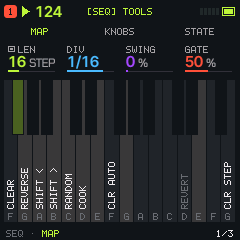
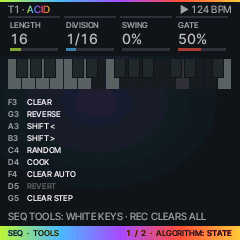
feat(ui): SEQ TOOLS and REC layers in the ACID look
ux_layer.c draws both (key map, knob row, status line naming the layer, own
view bits in ui.uxlv); the inherited cards and page columns are deleted from
ui_layer.c. Keys and knobs unchanged.

diff --git a/firmware/src/ux_layer.c b/firmware/src/ux_layer.c
@@ -1,6 +1,7 @@
 /* SPDX-License-Identifier: GPL-3.0-only */
 /* Copyright (C) 2026 NorfolkHacker */
-/* ACID FM's held layers (ux_layer.h; 3b spec 2.6): EDIT, LFO's MACRO, FX's performance layer and SCL in the 3a look. The keys,
+/* ACID FM's held layers (ux_layer.h; 3b spec 2.6; 3c-1 task 5 spec 2.6): EDIT, LFO's MACRO, FX's performance layer, SCL, SEQ TOOLS
+ * and REC in the 3a look. The keys,
  * the knobs, the LEDs, the gesture and the latches are ui_layer.c's (ly_keyname names each key and its state, layer_knob turns
  * the knobs, layer_state lists what is on): only the drawing is here. The screen as a section page's (ux_section.c): the header
  * (T3 . the sound, the transport), the knob row (the layer's four in KNOB 1..4's colours, plain names: FX's macros or the
@@ -10,7 +11,10 @@
  * them), the status line (a message; a knob's readout; else the layer and what its keys and OCT do), the footer (the layer and
  * how it is held; ALGORITHM's next view). Included after ux_section.c (uxs_knobs, uxs_val) and ui_layer.c (its tables). */
 
-static int ux_layer_owns(uint32_t l) { return l == LAYER_EDIT || l == LAYER_MACRO || l == LAYER_FX || l == LAYER_SCL; }
+static int ux_layer_owns(uint32_t l)
+{
+    return l == LAYER_EDIT || l == LAYER_MACRO || l == LAYER_FX || l == LAYER_SCL || l == LAYER_SEQ || l == LAYER_REC;
+}
 
 /* FX's KNOB 1..4, the performance macros (perform.c perf_m), by what they do (spec 0 rule 4; one name a meaning): STEP LOOP
  * (JIANT's STEPS: ui_live.c loops the steps the playhead is in, 1/2 1/4 1/8 of the pattern or one step; STEPS is LFO's
@@ -30,20 +34,25 @@ static const char *const UXL_KEYP[16] = {"REPEAT 1/8", "REPEAT 1/16", "REPEAT 1/
                                          "DECAY -", "DECAY +", "STUTTER 1/8", "STUTTER 1/16", "ATTACK +", "ON ALL", "ON SYNTHS",
                                          "ON DRUMS", "INIT + KIT", "RECALL + KIT"};
 /* the status line's words when nothing else is said: the layer, what its keys and OCT do */
-enum { UXL_S_FX, UXL_S_LATCH, UXL_S_LOCK, UXL_S_EDIT, UXL_S_EDRM, UXL_S_SCL, UXL_S_MAC, UXL_S_MLAT, UXL_S_N };
+enum { UXL_S_FX, UXL_S_LATCH, UXL_S_LOCK, UXL_S_EDIT, UXL_S_EDRM, UXL_S_SCL, UXL_S_MAC, UXL_S_MLAT, UXL_S_TOOLS, UXL_S_TDRM,
+       UXL_S_TBUSY, UXL_S_REC, UXL_S_N };
 static const char *const UXL_SAY[UXL_S_N] = {"FX: KEYS PLAY EFFECTS \xB7 BLACK KEYS MUTE", "FX LATCH: KEYS ON / OFF \xB7 OCT- ALL OFF",
                                              "FX LOCKED: PRESS FX TO UNLOCK", "EDIT: F3 INIT \xB7 G3 RECALL \xB7 SELECT DICE",
                                              "EDIT: SELECT DICE \xB7 BLACK KEYS MUTE",
                                              "SCL: A KEY SETS THE ROOT \xB7 NO OCTAVE", "LFO: F3 DICE \xB7 G3 CLEAR \xB7 SELECT DICE",
-                                             "MACROS LATCHED: PRESS LFO TO CLOSE"};
+                                             "MACROS LATCHED: PRESS LFO TO CLOSE",
+                                             "SEQ TOOLS: WHITE KEYS \xB7 REC CLEARS ALL",
+                                             "SEQ TOOLS: BLACK KEYS PICK THE LANE",
+                                             "SEQ TOOLS: STOP TO EDIT",
+                                             "REC: F3 CLEAR \xB7 G3 CLICK \xB7 KNOB 1 CLICK"};
 static const char *const UXL_GXSAY[4] = {"GLITCH HELD: ITS FOUR KNOBS", "TAPE STOP HELD: KNOB 1 SCRATCHES",
                                          "SHUFFLE HELD: ITS FOUR KNOBS", "FREEZE HELD: ITS FOUR KNOBS"};
 /* the footer: the layer and how it is open; ALGORITHM's next view (MAP, STATE) */
-enum { UXL_W_FX, UXL_W_LATCH, UXL_W_LOCK, UXL_W_EDIT, UXL_W_SCL, UXL_W_MAC, UXL_W_MLAT };
-static const char *const UXL_WHERE[7] = {"FX \xB7 HOLD", "FX \xB7 LATCH", "FX \xB7 LOCKED", "EDIT \xB7 HELD", "SCL \xB7 HELD",
-                                         "LFO \xB7 MACROS", "LFO \xB7 LATCHED"};
+enum { UXL_W_FX, UXL_W_LATCH, UXL_W_LOCK, UXL_W_EDIT, UXL_W_SCL, UXL_W_MAC, UXL_W_MLAT, UXL_W_TOOLS, UXL_W_REC, UXL_W_N };
+static const char *const UXL_WHERE[UXL_W_N] = {"FX \xB7 HOLD", "FX \xB7 LATCH", "FX \xB7 LOCKED", "EDIT \xB7 HELD", "SCL \xB7 HELD",
+                                               "LFO \xB7 MACROS", "LFO \xB7 LATCHED", "SEQ \xB7 TOOLS", "REC \xB7 HELD"};
 static const char *const UXL_ALGO[2] = {"1 / 2 \xB7 ALGORITHM: STATE", "2 / 2 \xB7 ALGORITHM: MAP"};
-/* (3b task 9 fix) layer l's view: 1 STATE, 0 MAP (its own: ui.uxlv; GLO SEQ TOOLS REC SAVE keep ui.lylv) */
+/* (3b task 9 fix) layer l's view: 1 STATE, 0 MAP (its own: ui.uxlv; GLO SAVE keep ui.lylv) */
 static uint32_t uxl_state(uint32_t l) { return (ui.uxlv >> l) & 1u; }
 static uint32_t uxl_panels;                             /* the panels drawn (tests/ui_test.c: one a change, none idle) */
 
@@ -96,8 +105,15 @@ static void uxl_knobs(uint32_t l, ux_knob_t k[4])
             str_cpy(k[c].value + str_len(k[c].value), "%", sizeof k[c].value - str_len(k[c].value));
             k[c].bar = (uint8_t)(macro_v[c] * 255u / 127u);
         }
-    } else if (l == LAYER_EDIT || l == LAYER_SCL) {     /* the page's four as its section names them (EDIT: EDIT 1, the
-                                                         * engine's first; SCL: LY_SCL), wherever the page is */
+    } else if (l == LAYER_REC) {                        /* K1 CLICK (OFF REC ON); K2..K4 are nobody's (ui_layer.c RL_N) */
+        uint32_t v = rp_get(RL_F[0]);
+        k[0].label = RL_LABEL[0];
+        str_cpy(k[0].value, rl_name(0, v), sizeof k[0].value);
+        k[0].bar = (uint8_t)(v * 127u);
+        k[0].off = (uint8_t)!v;
+    } else if (l == LAYER_EDIT || l == LAYER_SCL || l == LAYER_SEQ) {   /* the page's four as its section names them (EDIT:
+                                                         * EDIT 1, the engine's first; SCL: LY_SCL; SEQ TOOLS: LY_SEQ, the
+                                                         * PATTERN page's), wherever the page is */
         uint8_t h = ui.home, pg = ui.page, nm[sizeof ui.nmem];
         memcpy(nm, ui.nmem, sizeof nm);
         ui.home = 0;
@@ -135,12 +151,18 @@ static const char *uxl_status(uint32_t l, const ux_knob_t k[4], uint16_t *col)
         return UXL_SAY[drum_track(TSEL) ? UXL_S_EDRM : UXL_S_EDIT];
     if (l == LAYER_SCL)
         return UXL_SAY[UXL_S_SCL];
+    if (l == LAYER_REC)
+        return UXL_SAY[UXL_S_REC];
+    if (l == LAYER_SEQ)
+        return UXL_SAY[chain_busy() ? UXL_S_TBUSY : drum_track(TSEL) ? UXL_S_TDRM : UXL_S_TOOLS];
     return UXL_SAY[layer_open() ? UXL_S_MAC : UXL_S_MLAT];
 }
 static const char *uxl_where(uint32_t l)
 {
     if (l == LAYER_FX)
         return UXL_WHERE[fx_lock && !ui.ly ? UXL_W_LOCK : perf_latch_on ? UXL_W_LATCH : UXL_W_FX];
+    if (l == LAYER_SEQ || l == LAYER_REC)
+        return UXL_WHERE[l == LAYER_SEQ ? UXL_W_TOOLS : UXL_W_REC];
     return UXL_WHERE[l == LAYER_EDIT ? UXL_W_EDIT : l == LAYER_SCL ? UXL_W_SCL : layer_open() ? UXL_W_MAC : UXL_W_MLAT];
 }
 
@@ -158,7 +180,13 @@ static uint16_t uxl_ink(uint32_t st)                    /* a key's name in the l
 }
 static const char *uxl_word(const char *nm)             /* a key's name in plain words */
 {
+    static char b[16];
     uint32_t i;
+    if (nm[0] == 'C' && nm[1] == 'L' && nm[2] == 'R' && nm[3] == ' ') {   /* SEQ TOOLS: CLR AUTO, CLR STEP, CLR BD: CLEAR .. */
+        str_cpy(b, "CLEAR ", sizeof b);
+        str_cpy(b + 6, nm + 4, sizeof b - 6);
+        return b;
+    }
     for (i = 0; i < NELEM(UXL_KEYJ); i++)
         if (str_eq(nm, UXL_KEYJ[i]))
             return UXL_KEYP[i];

diff --git a/tests/ui_test.c b/tests/ui_test.c
@@ -17400,16 +17400,16 @@ static int test_t9_knobs(void)
         for (k = 0; k < 8u; k++) okw &= text_w(&UF_VAL, UXL_IVL[k]) <= UX_COL_W - 4;
         for (k = 0; k < UXL_S_N; k++) if (text_w(&UF_HDR, UXL_SAY[k]) > 224) { printf("  \"%s\" %d px\n", UXL_SAY[k], (int)text_w(&UF_HDR, UXL_SAY[k])); okw = 0; }
         for (k = 0; k < 4u; k++) if (text_w(&UF_HDR, UXL_GXSAY[k]) > 224) { printf("  \"%s\" %d px\n", UXL_GXSAY[k], (int)text_w(&UF_HDR, UXL_GXSAY[k])); okw = 0; }
-        for (k = 0; k < 7u; k++)
+        for (k = 0; k < UXL_W_N; k++)
             for (s = 0; s < 2u; s++) okw &= 8 + uxf_w(UXL_WHERE[k]) + 16 + uxf_w(UXL_ALGO[s]) <= 232;
-        for (l = 0; l < 4u; l++)                         /* every key's name a layer can show, in the list's column */
+        for (l = 0; l < 6u; l++)                         /* every key's name a layer can show, in the list's column */
             for (s = 0; s < 3u; s++) {
                 pfx_tgt = (uint8_t)s;
                 for (k = 0; k < 27u; k++) {
                     char nm[12], nt[4];
                     int blk;
                     uint32_t p = uxl_key(k, &blk, nt);
-                    (void)ly_keyname(UXT9_L[l], blk, p, nm);
+                    (void)ly_keyname(l < 4u ? UXT9_L[l] : l == 4u ? LAYER_SEQ : LAYER_REC, blk, p, nm);
                     if (nm[0] && UXL_LS_NM + text_w(&UF_LBL, uxl_word(nm)) > UXL_LS_W - 1) {
                         printf("  key %s: \"%s\" %d px\n", nt, uxl_word(nm), (int)text_w(&UF_LBL, uxl_word(nm))); okw = 0;
                     }
@@ -17431,6 +17431,69 @@ static int test_t9_knobs(void)
         }
         bad += check("  the MAP's list in keyboard order, F3 F#3 G3 .. F#5 G5 (each its key's)", okk);
     }
+    return bad;
+}
+/* ---------------------------------------------- (ACID FM 3c-1 task 5) SEQ TOOLS and REC in the ACID look --- */
+static int test_c5_layers(void)
+{
+    static const char *const PG[2] = {"STEP", "PATTERN"};
+    int bad = 0, ok = 1, own = 1;
+    uint32_t i, d, c;
+    char nm[12];
+    ux_knob_t k[4];
+    ok = ux_layer_owns(LAYER_SEQ) && ux_layer_owns(LAYER_REC);
+    own = ok;
+    for (d = 0; d < 2u; d++) {                           /* SEQ TOOLS: a synth track, a DRUM track */
+        uint32_t st;
+        uint16_t f;
+        ui_power_on(); frame();
+        set_engine_of(TSEL, d ? ENGI_DRUM : ENGI_ANALOG); TSEL->engine = TSEL->eng_req;
+        go_title(PG[0]); frame();
+        btn_down(B_SEQ); frames(800);
+        if (ui.layer != LAYER_SEQ || !ux_layer_owns(LAYER_SEQ)) { printf("  SEQ %u: not open\n", (unsigned)d); ok = 0; }
+        ui.force = 1; frame();
+        if (!uxt9_blend(ux_px(120, 0)) || !uxt9_blend(ux_px(120, 1))) { printf("  SEQ %u: no blend line\n", (unsigned)d); ok = 0; }
+        if (!uxt9_blend(ux_px(2, 238)) || !uxt9_blend(ux_px(237, 228))) { printf("  SEQ %u: no band footer\n", (unsigned)d); ok = 0; }
+        if (ux_px(236, UX_Y_STATUS + 10u) != UX_BG) { printf("  SEQ %u: status not on BG\n", (unsigned)d); ok = 0; }
+        uxl_knobs(LAYER_SEQ, k);                         /* KNOB 1..4: the PATTERN page's, as that page names them */
+        ok &= k[0].label[0] && k[1].label[0] && k[2].label[0] && k[3].label[0];
+        for (c = 0; c < 4u; c++) {
+            uint32_t x = UX_COL_X0 + c * UX_COL_PITCH;
+            uint16_t r = ux_px(x + 20u, UX_Y_KNOBS), kc = ux_knob_col(c);
+            if (r != UX_LINE && r != kc) { printf("  SEQ %u knob %u: rule %04x\n", (unsigned)d, (unsigned)c, r); ok = 0; }
+        }
+        st = ly_keyname(LAYER_SEQ, 0, 0u, nm);           /* F3 CLEAR: a key that does something, in the ux fill */
+        f = ux_px(11u, UX_Y_PANEL + UXL_KB_Y + 25u);
+        if (f != uxl_fill(st, nm[0] != 0, 0)) { printf("  SEQ %u: F3 %04x\n", (unsigned)d, f); ok = 0; }
+        if (!str_eq(uxl_word("CLR AUTO"), "CLEAR AUTO") || !str_eq(uxl_word("CLR STEP"), "CLEAR STEP")) { printf("  words\n"); ok = 0; }
+        ui.lylv = 0; ui.uxlv = 0;                        /* ALGORITHM: this layer's own view bit, not GLO's lens */
+        turn(EN_ALGO, 1); frame();
+        if (!((ui.uxlv >> LAYER_SEQ) & 1u) || ui.lylv) { printf("  SEQ %u: uxlv %x lylv %u\n", (unsigned)d, ui.uxlv, ui.lylv); ok = 0; }
+        turn(EN_ALGO, -1); frame();
+        if ((ui.uxlv >> LAYER_SEQ) & 1u) { printf("  SEQ %u: STATE stuck\n", (unsigned)d); ok = 0; }
+        btn_up(B_SEQ); frames(400);
+        ui.uxlv = 0;
+    }
+    bad += check("ACID FM 3c-1 task 5: SEQ TOOLS (synth and DRUM) in the ACID look: blend line, knob row, keys, band, its own view bit", ok);
+    ok = 1;
+    ui_power_on(); frame();
+    go_title(PG[0]); frame();
+    btn_down(B_REC); frames(800);
+    if (ui.layer != LAYER_REC) { printf("  REC not open\n"); ok = 0; }
+    ui.force = 1; frame();
+    if (!uxt9_blend(ux_px(120, 0)) || !uxt9_blend(ux_px(2, 238))) { printf("  REC: no blend\n"); ok = 0; }
+    uxl_knobs(LAYER_REC, k);
+    ok &= str_eq(k[0].label, "CLICK") && !k[1].label[0] && !k[3].label[0] && k[0].value[0];
+    ui.uxlv = 0;
+    turn(EN_ALGO, 1); frame();
+    ok &= ((ui.uxlv >> LAYER_REC) & 1u) && !ui.lylv;
+    turn(EN_ALGO, -1); frame();
+    btn_up(B_REC); frames(400);
+    ui.uxlv = 0;
+    bad += check("  .. REC: the knob row (K1 CLICK), the blend, its own view bit", ok);
+    (void)i;
+    bad += check("  .. SEQ and REC are drawn by ux_layer.c", own);
+    ui_power_on();
     return bad;
 }
 static int test_t9_names(void)
@@ -18768,6 +18831,7 @@ int main(void)
     bad += test_t8_names();
     bad += test_t8_fix();                               /* (ACID FM 3b task 8 fix) */
     bad += test_t9_look();                              /* (ACID FM 3b task 9) */
+    bad += test_c5_layers();                            /* (ACID FM 3c-1 task 5) */
     bad += test_t9_knobs();
     bad += test_t9_names();
     bad += test_t9_lock();

diff --git a/firmware/src/ui_layer.c b/firmware/src/ui_layer.c
@@ -366,7 +366,6 @@ static void rec_clear(void)
 #define RL_N 1u
 static const uint8_t RL_F[RL_N] = {RP_CLICK};
 static const char *const RL_LABEL[RL_N] = {"CLICK"};
-static const uint8_t RL_ICON[RL_N] = {ICON_TEMPO};
 static const char *rl_name(uint32_t r, uint32_t v) { (void)r; return CLICK_N[v % 3u]; }
 static void rec_set(uint32_t r, uint32_t v)
 {
@@ -812,7 +811,7 @@ static uint32_t layer_leds(uint32_t *br)
  * the accent, a muted track KEY, unavailable its name DIM, its note under it; KNOBS the four as gauges in their knobs'
  * colours over the layer's keys (the keycaps' words); STATE what is on, as chips. (Until 0.8.8: cells with note names,
  * the Felucca map.) The keys and knobs do what they did: only the drawing is new. (ACID FM 3b task 9: EDIT, MACRO, FX and SCL
- * are drawn by ux_layer.c in the ACID look from ly_keyname and layer_state; this overlay is GLO's, SEQ TOOLS', REC's, SAVE's) */
+ * are drawn by ux_layer.c in the ACID look from ly_keyname and layer_state; 3c-1 task 5: SEQ TOOLS and REC too; this overlay is GLO's and SAVE's) */
 static const char *const PF_NAME[PF_M1] = {"RPT 1/8", "RPT 1/16", "RPT 1/32", "GLITCH", "TAPE STOP",   /* the audio ones */
     "OCT-", "OCT+", "1/2 TEMPO", "DEC-", "DEC+", "STUT 1/8", "STUT 1/16", "ATK+", "ARP", "RANDOM",   /* the MIDI ones (pfx.c) */
     "SHUFFLE", "CRUSH", "THROW", "FREEZE"};             /* (0.9.17) C#5 SHUFFLE, (0.9.14) the sweeps D#5 F#5, G#4 FREEZE */
@@ -1021,6 +1020,7 @@ static void ly_piano(uint32_t l)
             cv_text_up(x0 + HALF_UP(10 - AF_X_CAP_H) - AF_X_CAP_Y, y + bh - 4, &AF_X, nm, fill == T_BG ? T_DIM : ink, fill, bh - 8);
     }
 }
+/* (3c-1 task 5) GLO's and SAVE's cards: the rest are ux_layer.c's knob row */
 static void layer_cards(uint32_t l)
 {
     char val[12];
@@ -1043,25 +1043,6 @@ static void layer_cards(uint32_t l)
         draw_column(2, "PLAY", live.mode ? "SONG" : "LOOP", "", VAL(2u), -1, ICON_LOOP);
         draw_column(3, "REC", live.srec == 2u ? "ON" : live.srec ? "ARM" : "OFF", "", live.srec ? VAL(3u) : T_DIM, -1,
                     ICON_X_REC);
-    } else if (l == LAYER_REC) {                        /* CLICK, then empty cards */
-        for (c = 0; c < 4u; c++) {
-            uint32_t v = c < RL_N ? rp_get(RL_F[c]) : 0u;
-            if (c < RL_N)
-                draw_column(c, RL_LABEL[c], rl_name(c, v), "", !v ? T_DIM : VAL(c), (int32_t)v * 500, RL_ICON[c]);
-            else
-                draw_column(c, "", "", "", T_THEME, -1, ICON_NONE);
-        }
-    } else {                                            /* the page's four (SEQ TOOLS: LY_SEQ) */
-        uint8_t h = ui.home, pg = ui.page, nm[sizeof ui.nmem];
-        memcpy(nm, ui.nmem, sizeof nm);
-        ui.home = 0;
-        ui.page = (uint8_t)page_first(LAYERS[l].fam);
-        page_over = ly_page(l);
-        draw_columns();
-        page_over = 0;
-        ui.home = h;
-        ui.page = pg;
-        memcpy(ui.nmem, nm, sizeof nm);
     }
 }
 
